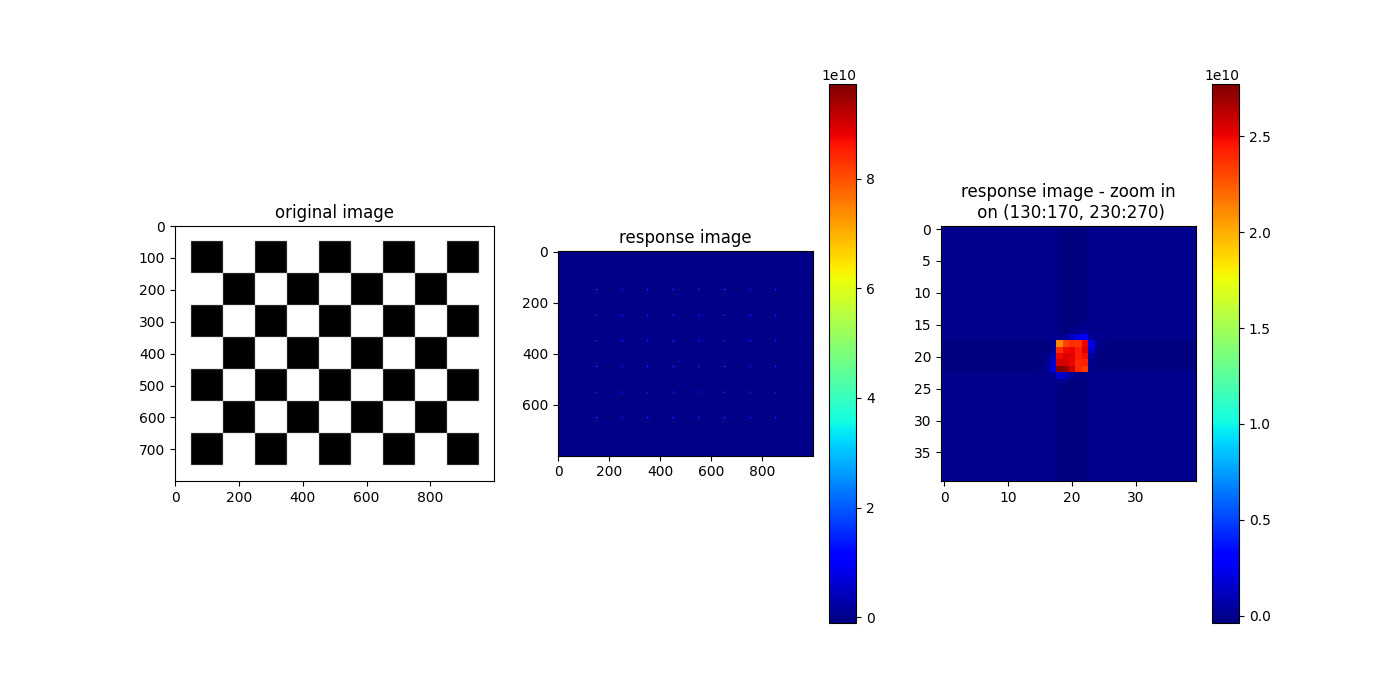
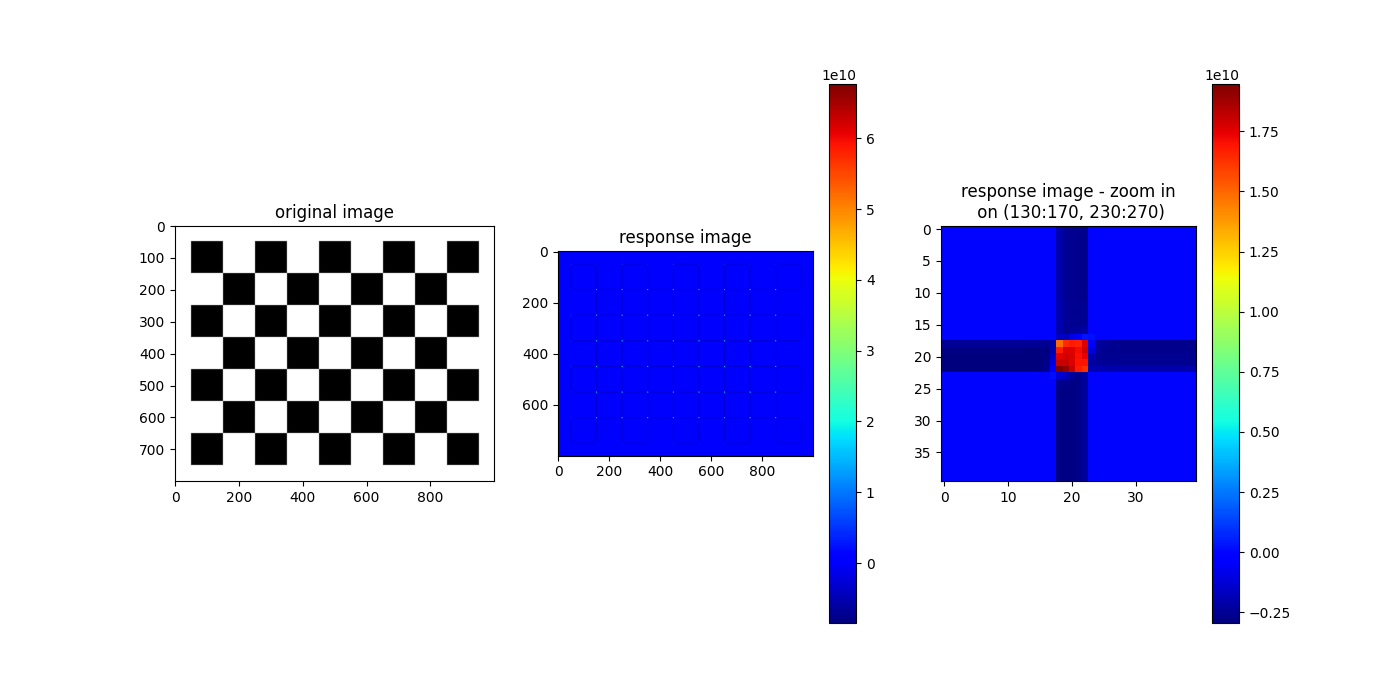
finished the first part need2 adjust thersh hold,k

diff --git a/harris_corner_detector.py b/harris_corner_detector.py
@@ -11,9 +11,9 @@ ID1 = '203200480'
 ID2 = '987654321'
 
 # Harris corner detector parameters - you may change them.
-K = 0.05
-CHECKERBOARD_THRESHOLD = 1e1
-GIRAFFE_THRESHOLD = 1e3
+K = 0.08
+CHECKERBOARD_THRESHOLD = 2.6e2
+GIRAFFE_THRESHOLD = 2.8e2
 BUTTERFLY_IMAGE = 'butterfly.jpg'
 
 # Do not change the following constants:
@@ -252,11 +252,14 @@ def our_harris_corner_detector(input_image: np.ndarray, K: float,
        input_image = cv2.cvtColor(input_image, cv2.COLOR_RGB2GRAY)  
     tiles= black_and_white_image_to_tiles(input_image,25,25)
     new_tiles= np.zeros(tiles.shape)
-    for i in range(len(tiles[0])):
+    shoof = tiles.shape[0]
+    for i in range(shoof):
         tile = tiles[i]
         index = np.argmax(tile)
         new_tile_index= np.unravel_index(index,tile.shape,order= 'C')
         temp =tile[new_tile_index]
+        if i % 5 == 0:
+            temp1=0 #delete this
         new_tiles[i,new_tile_index[0],new_tile_index[1]]=tile[new_tile_index]
     h,w = input_image.shape
     new_image = image_tiles_to_black_and_white_image(new_tiles,h,w)
